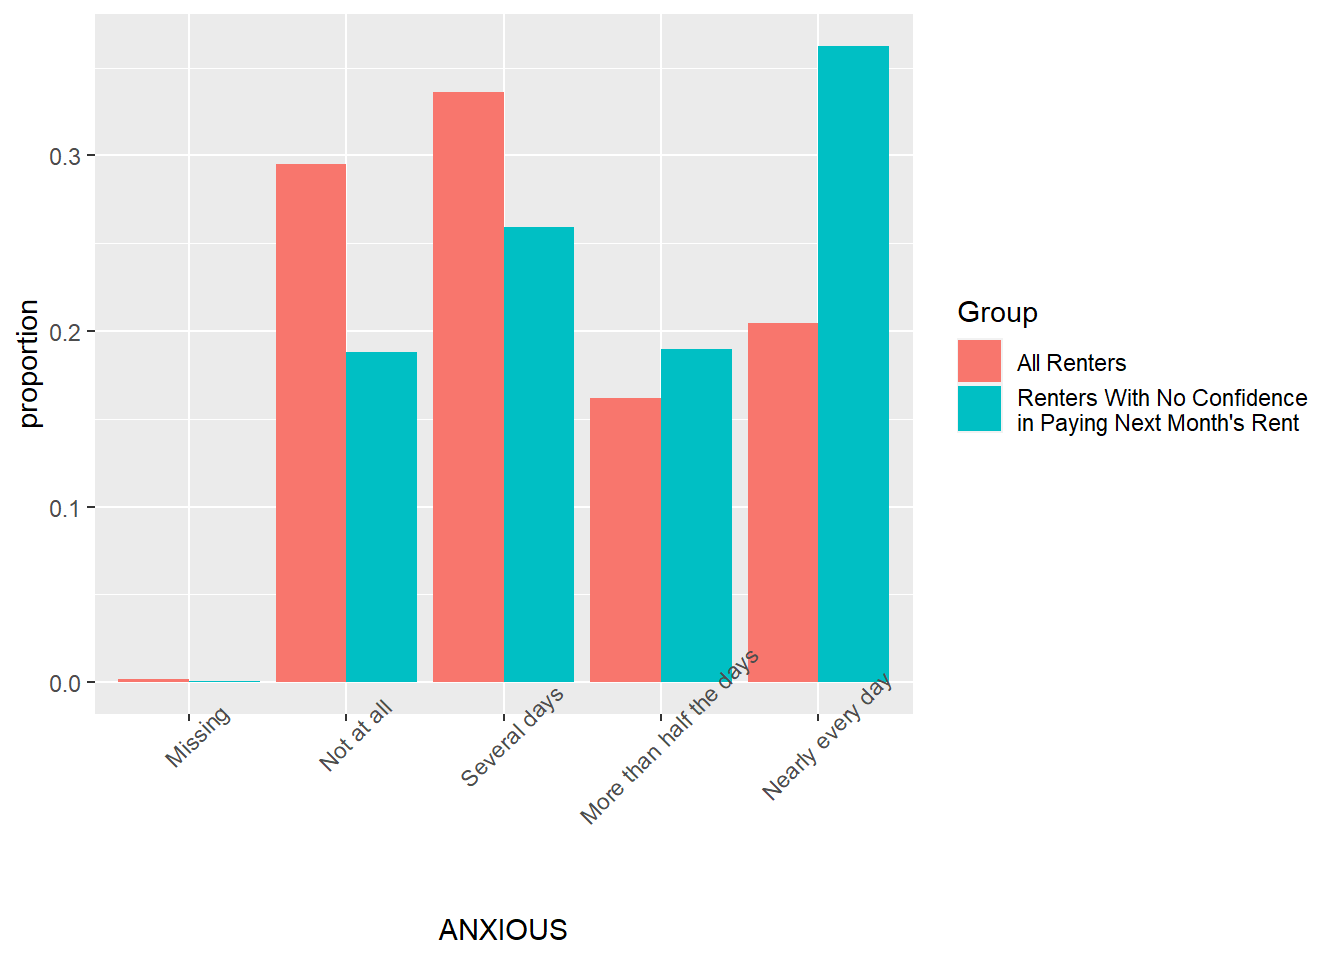
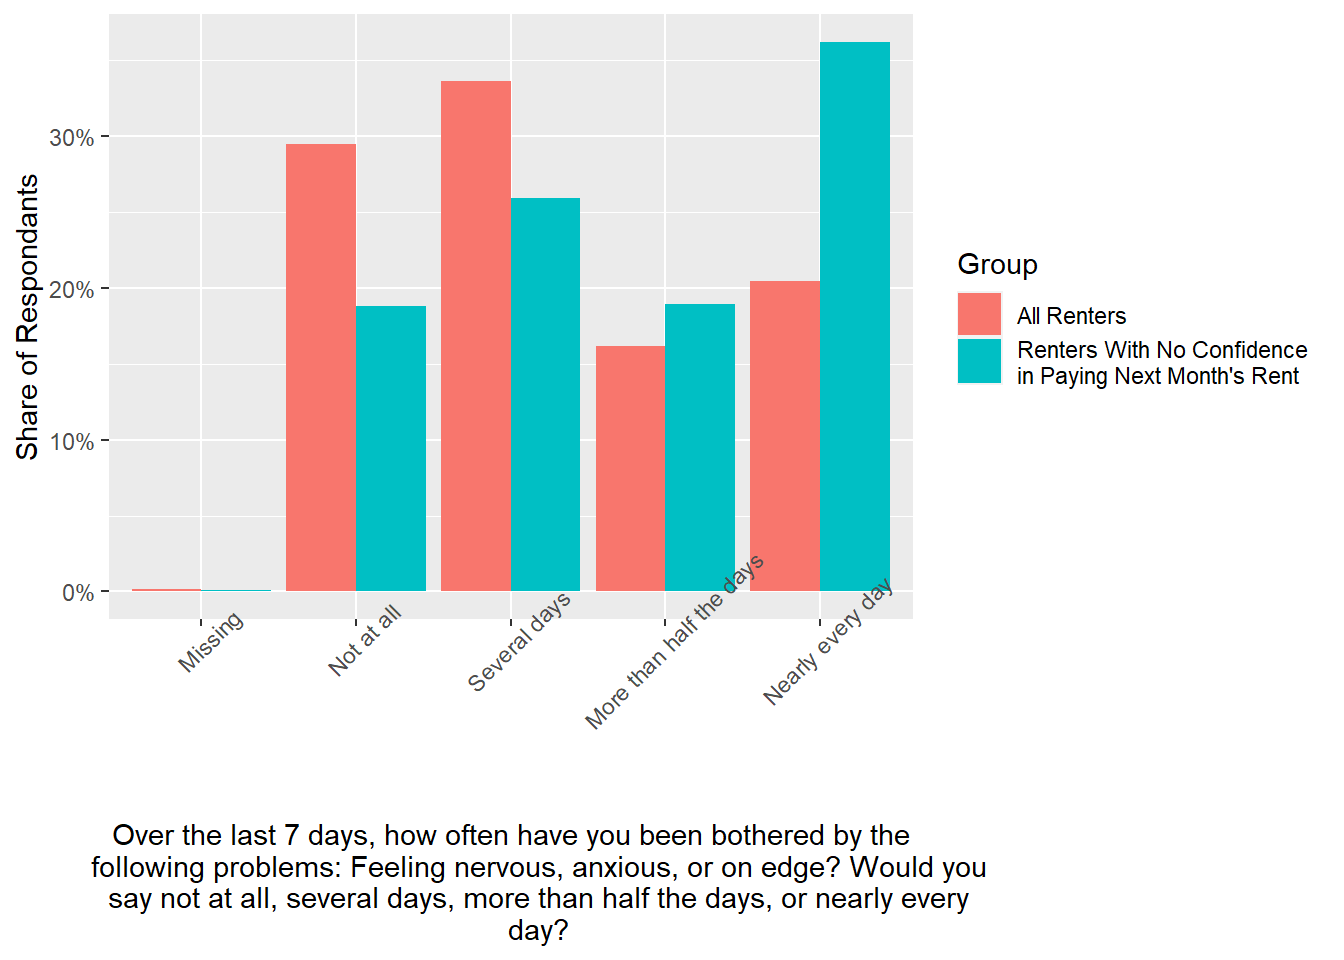
css update, post update

diff --git a/content/post/2022-01-30-exploring-census-household-pulse-survey-part-1/index.html b/content/post/2022-01-30-exploring-census-household-pulse-survey-part-1/index.html
@@ -22,33 +22,35 @@ projects: []
 
 <div id="background" class="section level2">
 <h2>Background</h2>
-<p>The Census Bureau began the Household Pulse Survey to measure the impacts of the Coronavirus Pandemic on the U.S. Household Population.</p>
+<p>The Census Bureau began the Household Pulse Survey to measure the impacts of the Coronavirus Pandemic on the U.S. Household Population. This post will demonstrate some basics of downloading the data, getting it into R, and doing some simple analysis.</p>
+<p>Download this post as an R Markdown file <a href="https://github.com/abibler/Census_Household_Pulse">here</a>.</p>
 </div>
 <div id="getting-the-data" class="section level2">
 <h2>Getting the data</h2>
 <p>This analysis will be based around using the Public Use File (PUF). The PUF contains the person-level responses to the survey and can be used to produce custom estimates. The PUFs for each week are published at <a href="https://www.census.gov/programs-surveys/household-pulse-survey/datasets.html" class="uri">https://www.census.gov/programs-surveys/household-pulse-survey/datasets.html</a>.</p>
 <p>The code below will download and unzip the data.</p>
-<pre class="r"><code>icesTAF::mkdir(&quot;Data&quot;)
-download.file(&quot;https://www2.census.gov/programs-surveys/demo/datasets/hhp/2020/wk1/HPS_Week01_PUF_CSV.zip&quot;, &quot;Data/HPS_Week01_PUF_CSV.zip&quot;)
+<pre class="r"><code># icesTAF::mkdir(&quot;Data&quot;)
+# download.file(&quot;https://www2.census.gov/programs-surveys/demo/datasets/hhp/2020/wk1/HPS_Week01_PUF_CSV.zip&quot;, &quot;Data/HPS_Week01_PUF_CSV.zip&quot;)
 
-unzip(&quot;Data/HPS_Week01_PUF_CSV.zip&quot;, exdir = &quot;Data/HPS_Week01_PUF_CSV&quot;)</code></pre>
+# unzip(&quot;Data/HPS_Week01_PUF_CSV.zip&quot;, exdir = &quot;Data/HPS_Week01_PUF_CSV&quot;)</code></pre>
 </div>
 <div id="working-with-the-data" class="section level2">
 <h2>Working with the data</h2>
 <pre class="r"><code>library(forcats)
+library(scales)
 library(srvyr)
 library(tidyverse)</code></pre>
 <p>First, we read in the PUF.</p>
 <pre class="r"><code>puf &lt;- read_csv(file = &quot;Data/HPS_Week01_PUF_CSV/pulse2020_puf_01.csv&quot;)</code></pre>
-<p>The PUF contains the PWEIGHT variable to produce (weighted) estimates. In order to calculate standard errors though, we also need the “Replicate Weights” file, attaching it to the PUF.</p>
+<p>The PUF contains the <strong>PWEIGHT</strong> variable to produce (weighted) estimates. In order to calculate standard errors though, we also need the “Replicate Weights” file, attaching it to the PUF.</p>
 <pre class="r"><code>repweights &lt;- read_csv(file = &quot;Data/HPS_Week01_PUF_CSV/pulse2020_repwgt_puf_01.csv&quot;)
 puf_w_weights &lt;- inner_join(puf, repweights, by = c(&quot;SCRAM&quot;,&quot;WEEK&quot;))</code></pre>
-<p>Now, we convert data frame to survey object. Allows for calculating summary statistics without re-specifying the weight each time.</p>
+<p>Now, we convert data frame to survey object. This allows for calculating summary statistics without re-specifying the weight each time.</p>
 <pre class="r"><code>wgts &lt;- colnames(repweights)[3:length(colnames(repweights))]
 
 survey_puf &lt;- as_survey_rep(puf_w_weights, id = SCRAM, weights = PWEIGHT, 
                             repweights = all_of(wgts), type = &quot;Fay&quot;, rho = 0.5005)</code></pre>
-<p>And now we should be all set to start analyzing the data. First, let’s make sure we know what we are doing by estimating something that already appears in the Detailed Tables. Specifically, we’ll look at the Housing 2b table. The table states that there are 8,918,242 persons in renter occupied housing units with No Confidence in the Ability to Pay Next Month’s Rent, 12,571,649 with slight confidence, and so on. We can replicate these numbers, adding the category IDs from the data</p>
+<p>And now we should be all set to start analyzing the data. First, let’s make sure we know what we are doing by estimating something that already appears in the Detailed Tables. Specifically, we’ll look at the <a href="https://www2.census.gov/programs-surveys/demo/tables/hhp/2020/wk1/housing2b_week1.xlsx">Housing 2b table</a>. The table states that there are <strong>8,918,242</strong> persons in renter occupied housing units with No Confidence in the Ability to Pay Next Month’s Rent, <strong>12,571,649</strong> with slight confidence, and so on. We can replicate these numbers, adding the category IDs from the data.</p>
 <pre class="r"><code>renters_payment_confidence &lt;- 
 survey_puf %&gt;% 
   filter(WEEK == &quot;1&quot; &amp; TENURE == &quot;3&quot;) %&gt;% 
@@ -112,8 +114,8 @@ knitr::kable(renters_payment_confidence, format.args = list(big.mark = &quot;,&q
 </tr>
 </tbody>
 </table>
-<p>We see that we were able to successfully reproduce the estimates. However, the standard errors are slightly off.</p>
-<p>Now we can produce custom estimates. For example, the pulse asks respondents a series of questions about their mental health. Health Table 2a lists Symptoms of Anxiety By Selected Characteristics. However, the respondent’s housing situation is not one of the characteristics.</p>
+<p>We see that we were able to successfully reproduce the estimates. However, the standard errors are slightly off. (If anyone knows why, please let me know.)</p>
+<p>Now we can produce custom estimates. For example, the pulse asks respondents a series of questions about their mental health. <a href="https://www2.census.gov/programs-surveys/demo/tables/hhp/2020/wk1/health2a_week1.xlsx">Health Table 2a</a> lists Symptoms of Anxiety By Selected Characteristics. However, the respondent’s housing situation is not one of the characteristics.</p>
 <p>Let’s look at the symptoms of anxiety for renters.</p>
 <pre class="r"><code>anxiety_for_all_renters &lt;- survey_puf %&gt;% 
   filter(WEEK == &quot;1&quot; &amp; TENURE == &quot;3&quot;) %&gt;% 
@@ -140,9 +142,16 @@ anxiety_for_renters$ANXIOUS &lt;- factor(anxiety_for_renters$ANXIOUS, labels = c
                                               &quot;More than half the days&quot;,
                                               &quot;Nearly every day&quot;))
 
+
 ggplot(anxiety_for_renters, aes(x = ANXIOUS, y = proportion, fill = Group)) +
   geom_bar(stat = &quot;identity&quot;, position = &quot;dodge&quot;) +
-  theme(axis.text.x = element_text(angle = 45))</code></pre>
+  theme(axis.text.x = element_text(angle = 45)) +
+  xlab(&quot;Over the last 7 days, how often have you been bothered by the
+       following problems: Feeling nervous, anxious, or on edge? Would you
+       say not at all, several days, more than half the days, or nearly every
+       day?&quot;) +
+  ylab(&quot;Share of Respondants&quot;) + 
+  scale_y_continuous(labels = scales::percent)</code></pre>
 <p><img src="{{< blogdown/postref >}}index_files/figure-html/unnamed-chunk-7-1.png" width="672" /></p>
 <p>As might be expected, renters who report not being confident in their ability to pay next month’s rent also report feeling anxious more often.</p>
 <p>One thing to note about the Pulse is that tenure (whether the home is owned or rented) is missing for a large number of the respondents.</p>
@@ -157,27 +166,37 @@ tenure_w_missing$TENURE &lt;- factor(tenure_w_missing$TENURE, labels =
                             &quot;Owned with a mortgage&quot;,
                             &quot;Rented&quot;,
                             &quot;Occupied without payment of rent&quot;))
+tenure_w_missing$proportion &lt;- scales::label_percent()(tenure_w_missing$proportion)
 
-tenure_w_missing</code></pre>
-<pre><code>## # A tibble: 6 x 3
-##   TENURE                                   proportion proportion_se
-##   &lt;fct&gt;                                         &lt;dbl&gt;         &lt;dbl&gt;
-## 1 Question Seen But Category Not Collected    0.00500      0.000452
-## 2 Missing / Did Not Report                    0.102        0.00222 
-## 3 Owned free and clear                        0.183        0.00303 
-## 4 Owned with a mortgage                       0.408        0.00309 
-## 5 Rented                                      0.287        0.00340 
-## 6 Occupied without payment of rent            0.0152       0.000982</code></pre>
+tenure_w_missing[,1:2]</code></pre>
+<pre><code>## # A tibble: 6 x 2
+##   TENURE                                   proportion
+##   &lt;fct&gt;                                    &lt;chr&gt;     
+## 1 Question Seen But Category Not Collected 0.5%      
+## 2 Missing / Did Not Report                 10.2%     
+## 3 Owned free and clear                     18.3%     
+## 4 Owned with a mortgage                    40.8%     
+## 5 Rented                                   28.7%     
+## 6 Occupied without payment of rent         1.5%</code></pre>
+<p>We can see from below that even though tenure is missing for a large share of respondants, the proportion of owners and renters appears in line with that reported in the <a href="https://data.census.gov/cedsci/table?q=b25003&amp;tid=ACSDT1Y2019.B25003">American Community Survey</a>.</p>
 <pre class="r"><code>tenure_no_missing &lt;- survey_puf %&gt;% 
   filter(WEEK == &quot;1&quot; &amp; TENURE != &quot;-88&quot; &amp; TENURE != &quot;-99&quot;) %&gt;% 
   group_by(TENURE) %&gt;% 
   summarise(proportion = survey_mean())
-tenure_no_missing</code></pre>
-<pre><code>## # A tibble: 4 x 3
-##   TENURE proportion proportion_se
-##    &lt;dbl&gt;      &lt;dbl&gt;         &lt;dbl&gt;
-## 1      1     0.205        0.00333
-## 2      2     0.457        0.00322
-## 3      3     0.321        0.00382
-## 4      4     0.0171       0.00109</code></pre>
+
+tenure_no_missing$TENURE &lt;- factor(tenure_no_missing$TENURE, labels = 
+                         c( &quot;Owned free and clear&quot;,
+                            &quot;Owned with a mortgage&quot;,
+                            &quot;Rented&quot;,
+                            &quot;Occupied without payment of rent&quot;))
+tenure_no_missing$proportion &lt;- scales::label_percent()(tenure_no_missing$proportion)
+
+tenure_no_missing[,1:2]</code></pre>
+<pre><code>## # A tibble: 4 x 2
+##   TENURE                           proportion
+##   &lt;fct&gt;                            &lt;chr&gt;     
+## 1 Owned free and clear             21%       
+## 2 Owned with a mortgage            46%       
+## 3 Rented                           32%       
+## 4 Occupied without payment of rent 2%</code></pre>
 </div>

diff --git a/assets/scss/custom.scss b/assets/scss/custom.scss
@@ -1,0 +1,13 @@
+@import url('https://fonts.googleapis.com/css?family=Open+Sans&display=swap');
+
+p {
+	font-family: "Open Sans";
+}
+
+h2 {
+	font-weight: bold;
+}
+
+.navbar-light .navbar-brand {
+    color: #F80;
+}

diff --git a/content/authors/admin/_index.md b/content/authors/admin/_index.md
@@ -28,6 +28,6 @@ social:
 superuser: true
 title: Adam Bibler
 ---
-I’m Adam, a housing policy expert with a passion for economic data, research, and new ideas. Currently I am the Director of the Program Parameters and Research Division in the Office of Policy Development & Research, US Department of Housing and Urban Development.
+I’m Adam, an economist with a passion for data, research, and new ideas. Currently I am the Director of the Program Parameters and Research Division in the Office of Policy Development & Research, US Department of Housing and Urban Development.
 
 
